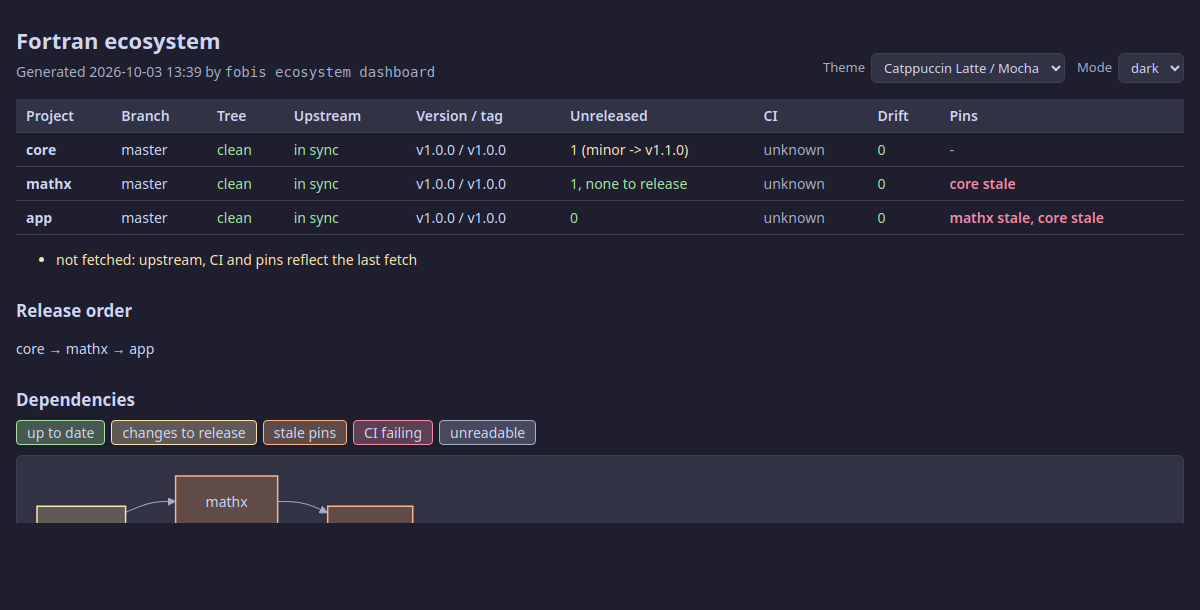
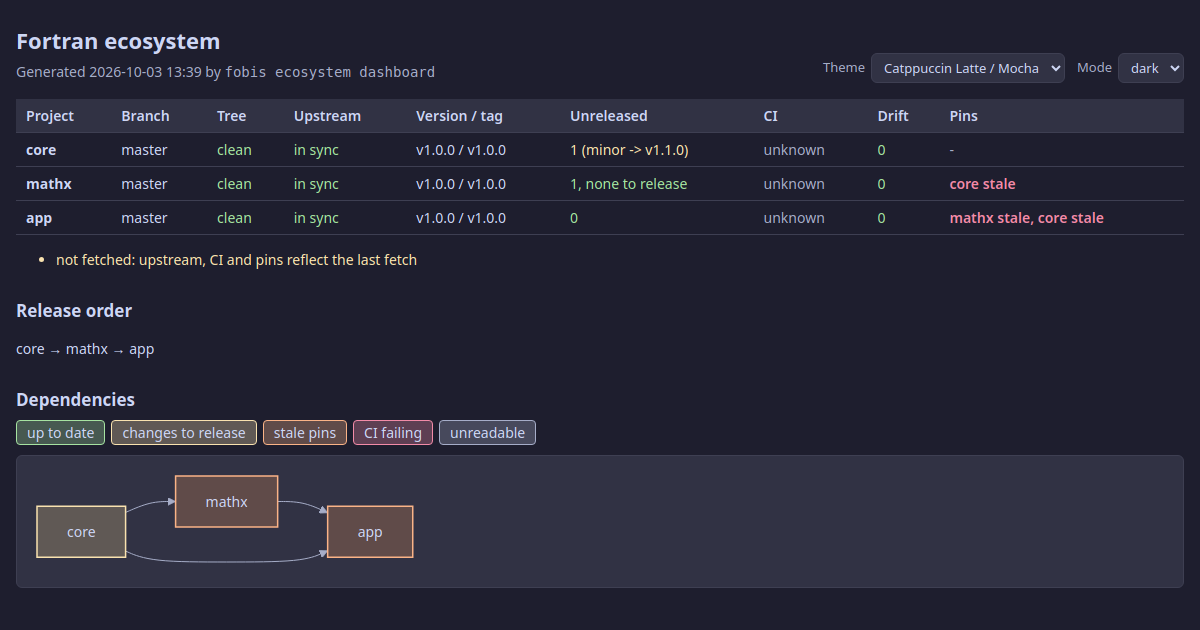
docs(ecosystem): show the whole dependency diagram in the dashboard screenshots
The screenshots were captured with a too-short headless window: its size
  includes the browser chrome, so the viewport clipped the diagram. Capture
  tall and crop to a fixed height instead.

diff --git a/CLAUDE.md b/CLAUDE.md
@@ -234,7 +234,7 @@ fobis install szaghi/FLAP --update              # re-pull before building
 
 - `docs/.vitepress/theme/index.ts` + a markdown fence hook in `docs/.vitepress/config.mts` render ```` ```mermaid ```` blocks client-side with the `mermaid` devDependency (re-rendered on dark-mode toggle). `vitepress-plugin-mermaid` (used by StringiFor/PENF) does NOT support VitePress 2: do not add it. `vite.build.target = 'es2022'` is required by mermaid 11.16+.
 - `docs/demo/ecosystem-demo/setup.sh DIR` builds a private 3-project ecosystem (core <- mathx <- app, local bare remotes, fetched deps, tags, scaffolded, a releasable `feat`); `source DIR/env.sh` selects its registry and rewrites `https://github.com/demo/*` to the local remotes via git `url.<base>.insteadOf`, so `fetch`/`release` work offline.
-- GIFs: `docs/make_gifs.sh` + VHS tapes in `docs/public/gifs/tapes/`; tapes named `*_ecosystem_*` get a fresh demo ecosystem. Record unreleased features with the dev FoBiS first on PATH: `PATH=../.venv/bin:$PATH bash make_gifs.sh 09 10 11`. HTML-dashboard screenshots in `docs/public/images/` were taken with the headless Chromium VHS ships (`~/.cache/rod/browser/chromium-*/chrome --headless=new --screenshot`).
+- GIFs: `docs/make_gifs.sh` + VHS tapes in `docs/public/gifs/tapes/`; tapes named `*_ecosystem_*` get a fresh demo ecosystem. Record unreleased features with the dev FoBiS first on PATH: `PATH=../.venv/bin:$PATH bash make_gifs.sh 09 10 11`. HTML-dashboard screenshots in `docs/public/images/` were taken with the headless Chromium VHS ships (`~/.cache/rod/browser/chromium-*/chrome --headless=new --screenshot`): `--window-size` includes the browser chrome, so the viewport is shorter than asked and a tight height clips the page — capture tall (`--window-size=1200,1000`), then crop (`ffmpeg -vf crop=1200:630:0:0`), and look at the result.
 
 ## Test Structure
 
